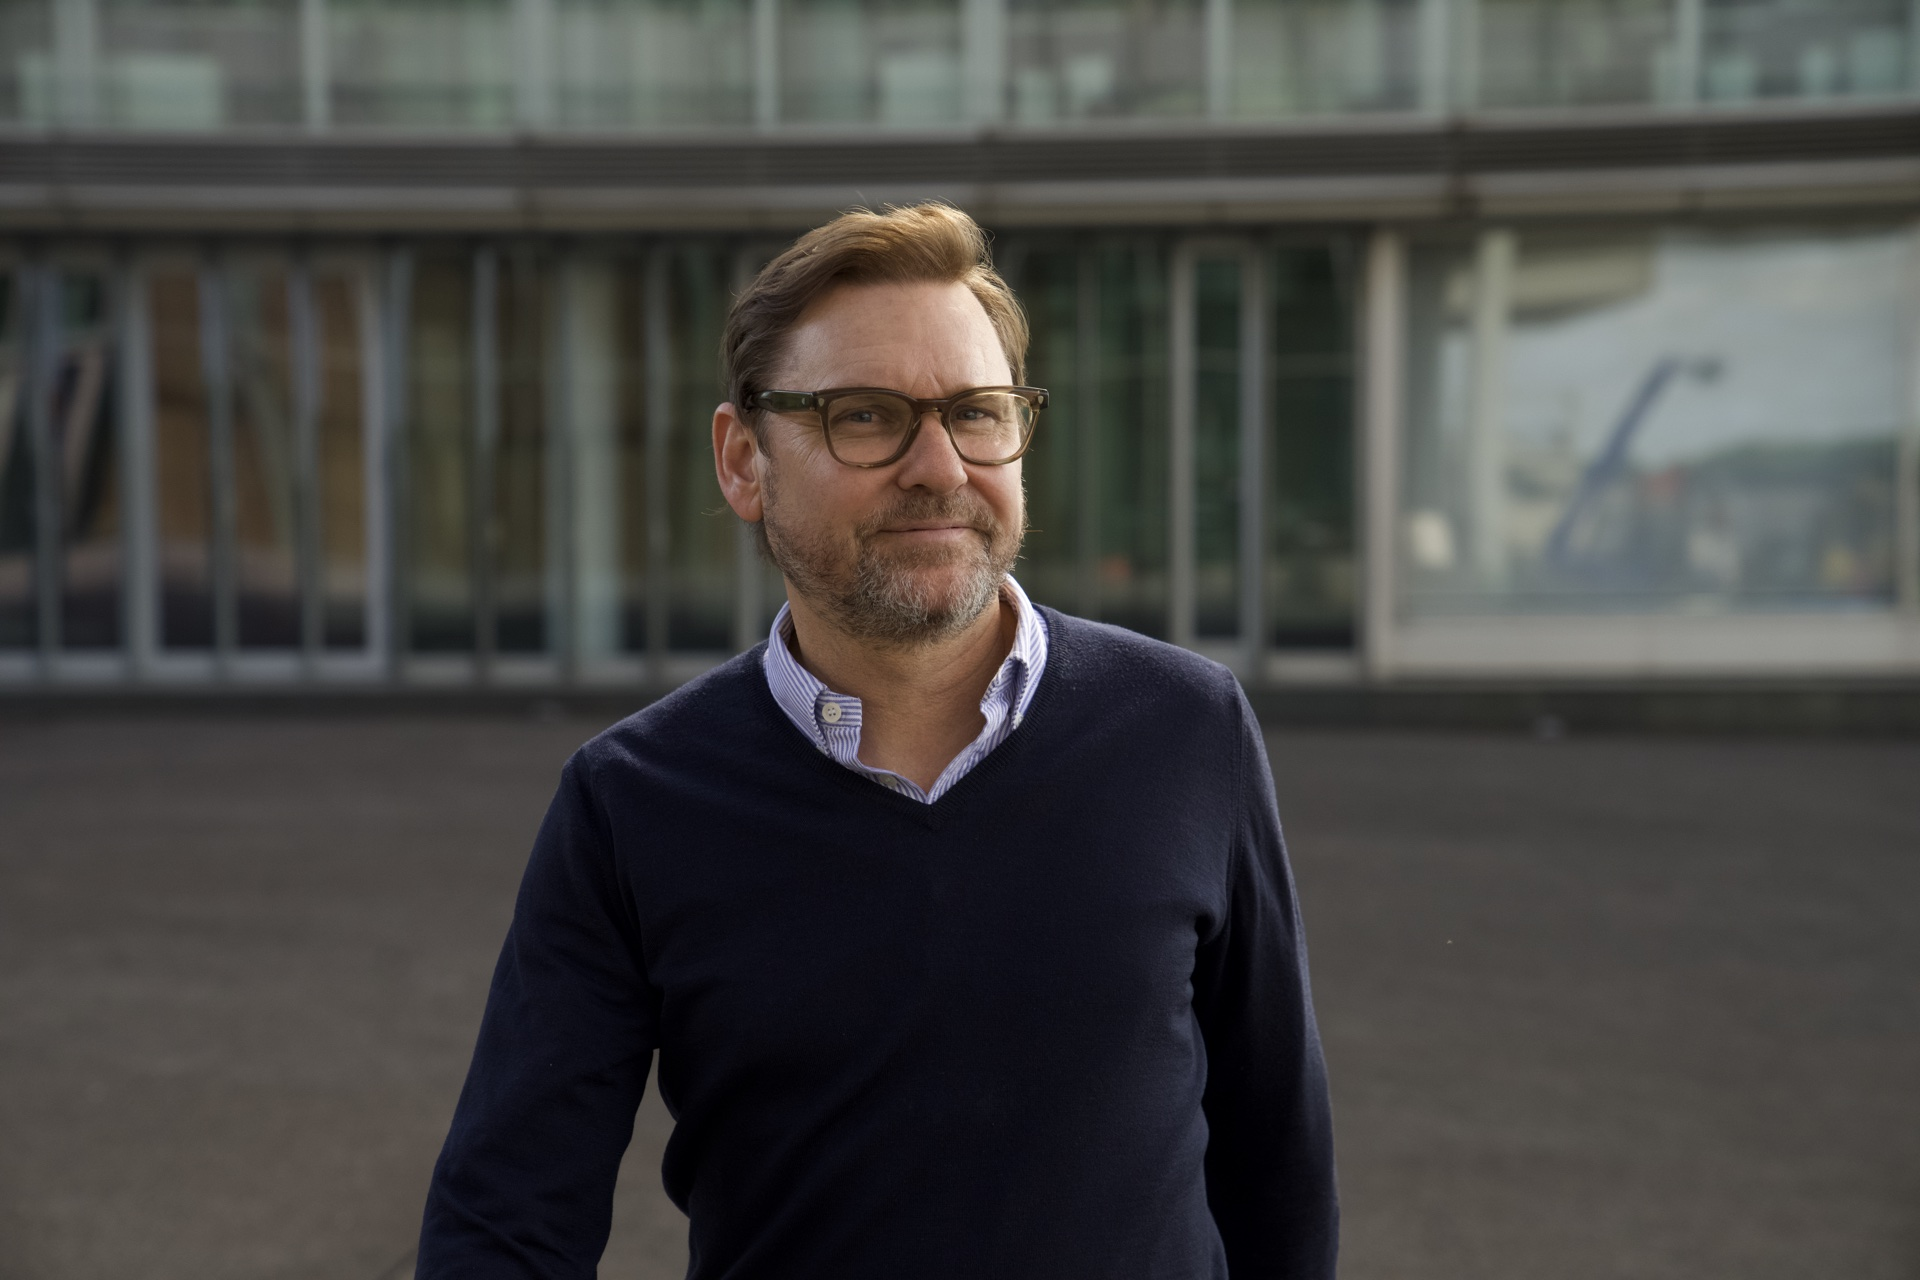
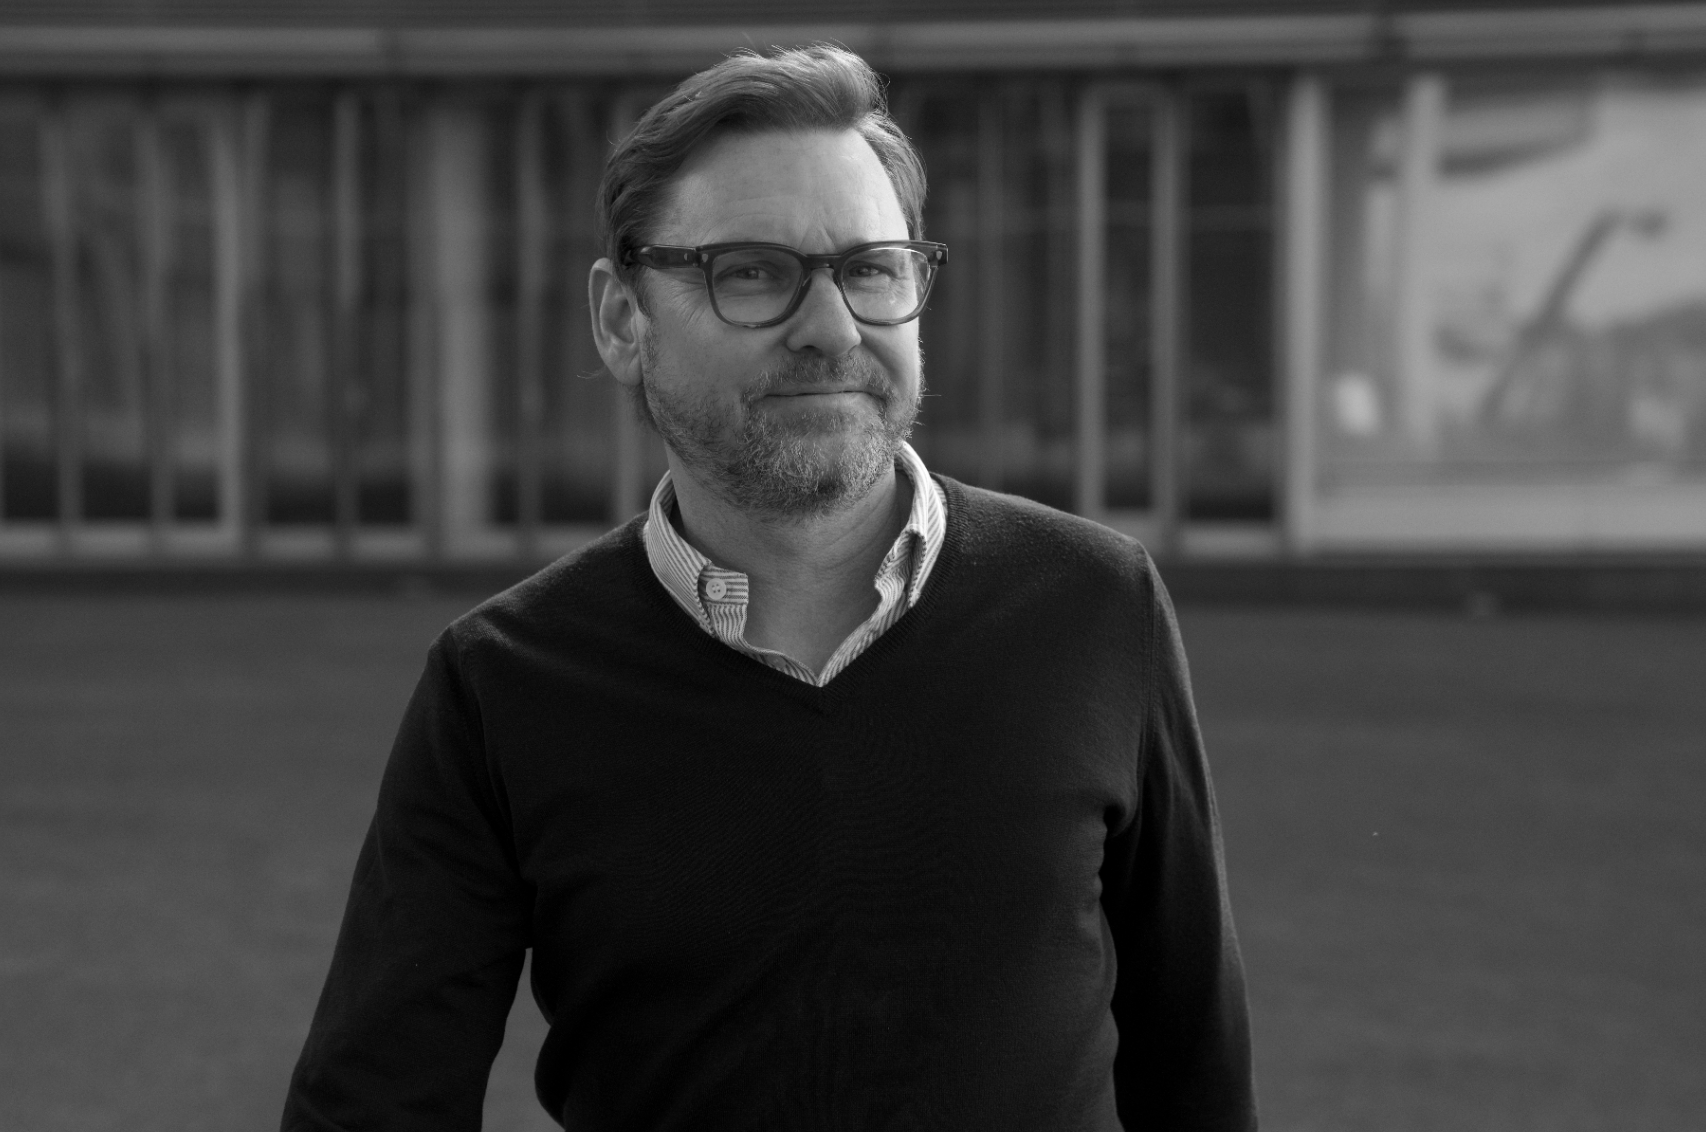
Team: new Cornelius + Jankel portraits, reorder to Cornelius · Justin · Jankel
- Display order is now Cornelius (left), Justin (centre), Jankel (right)
  per founder request; FACE_X in Founders.tsx reordered to match.
- New portraits for Cornelius (1706×1132) and Jankel (1536×1024),
  re-measured ar/k/e and verified in an isolated plate render.
- Note: Jankel's new shot is a tight leaning-in close-up (head ~80% of
  its frame). Because the plates hold every head to one size, it sets the
  size for the row, so all three now read large and close-cropped — a
  bolder look than the previous moderate framing. Loosening it would need
  a wider Jankel crop; his current file can't sit smaller without
  letterboxing.

diff --git a/lib/site.ts b/lib/site.ts
@@ -127,7 +127,25 @@ export const cta = { label: "Book a call", href: "/contact" } as const;
 // one global zoom factor that lets a single eye-line satisfy all three at once.
 // Swap a portrait without re-measuring and the heads silently drift apart.
 // The plate treatment itself is the kata-imagery skill (.claude/skills).
+// Display order (founder request, Sep 2026): Cornelius · Justin · Jankel.
+// FACE_X in Founders.tsx is indexed by this order — keep the two in step.
 export const founders = [
+  {
+    name: "Cornelius Roenz",
+    role: "Strategy, production controlling and executive production",
+    email: "cornelius@bureau-kata.com",
+    card: "Twenty years at Markenfilm, seven of them as Managing Director.",
+    notes: [
+      "Twenty years at Markenfilm, seven of them as Managing Director. Ran the company without leaving the work: pitches, directors, production negotiations, and the number on set.",
+      "Production leader and controlling specialist with deep market knowledge across German and European TVC, content, and campaign production.",
+      "Has built, assessed, and managed production budgets at every scale, from focused social campaigns to complex international shoots. Knows how ambitious creative work is costed, where the money shows up on screen, and when a number doesn't hold up.",
+      "Specialist in production economics and the German market. Its rates, its production companies, its directors, and the dynamics that shape it.",
+    ],
+    photo: "/team/cornelius.png",
+    ar: 1.5071, // 1706 × 1132 (new portrait, Sep 2026)
+    k: 0.4, // re-measured against the new file
+    e: 0.247, // eyes sit high in the new frame
+  },
   {
     name: "Justin Stiebel",
     role: "Strategy, organisational design and advisory",
@@ -146,22 +164,6 @@ export const founders = [
     e: 0.316,
   },
   {
-    name: "Cornelius Roenz",
-    role: "Strategy, production controlling and executive production",
-    email: "cornelius@bureau-kata.com",
-    card: "Twenty years at Markenfilm, seven of them as Managing Director.",
-    notes: [
-      "Twenty years at Markenfilm, seven of them as Managing Director. Ran the company without leaving the work: pitches, directors, production negotiations, and the number on set.",
-      "Production leader and controlling specialist with deep market knowledge across German and European TVC, content, and campaign production.",
-      "Has built, assessed, and managed production budgets at every scale, from focused social campaigns to complex international shoots. Knows how ambitious creative work is costed, where the money shows up on screen, and when a number doesn't hold up.",
-      "Specialist in production economics and the German market. Its rates, its production companies, its directors, and the dynamics that shape it.",
-    ],
-    photo: "/team/cornelius.png",
-    ar: 1.5, // 1920 × 1280 (new portrait, Aug 2026)
-    k: 0.35, // wide shot — re-measured so his head matches Justin & Jankel
-    e: 0.345, // eyes ~0.345 down the new frame; lands on the shared eye-line
-  },
-  {
     name: "Jankel Huppertz",
     role: "Production leadership, operations and advisory",
     email: "jankel@bureau-kata.com",
@@ -173,9 +175,9 @@ export const founders = [
       "Specialist in production structures, processes, and budgets, and where value is created or lost.",
     ],
     photo: "/team/jankel.png",
-    ar: 1.5607, // 1080 × 692
-    k: 0.5954, // sets the DROP ceiling — 97.1% of his photo height is used
-    e: 0.3757,
+    ar: 1.5, // 1536 × 1024 (new portrait, Sep 2026)
+    k: 0.83, // tight leaning-in close-up — sets the head size for the whole row
+    e: 0.43, // eyes ~0.43 down the new frame
   },
 ] as const;
 

diff --git a/components/Founders.tsx b/components/Founders.tsx
@@ -12,8 +12,9 @@ type CSSVars = React.CSSProperties & Record<string, string | number>;
 // three portraits were shot at three different distances, so cover would show
 // three different head sizes. Instead each image is placed by a measured zoom
 // and offset until every head renders the same size and every pair of eyes sits
-// on one line. Cornelius takes the most crop — he was shot widest, so his bridge
-// is the price of a uniform row.
+// on one line. Jankel's new shot is the tightest (his head fills ~80% of its
+// frame), so it sets the row's head size and the others zoom in to match — which
+// makes the whole row read large and close-cropped.
 //
 // Derived from the measured ar/k/e in lib/site.ts:
 //   zoom ∝ ar/k    how far each photo must come in for its head to match
@@ -26,7 +27,7 @@ const EYE_LINE = 0.33;
 
 // Centre-x of each face as a fraction of photo width. Eyeballed off the files;
 // the only number here that isn't measured.
-const FACE_X = [0.45, 0.455, 0.4];
+const FACE_X = [0.45, 0.45, 0.48]; // Cornelius, Justin, Jankel — the display order
 
 const need = founders.map((f) => f.ar / f.k);
 const tightest = Math.min(...need);
